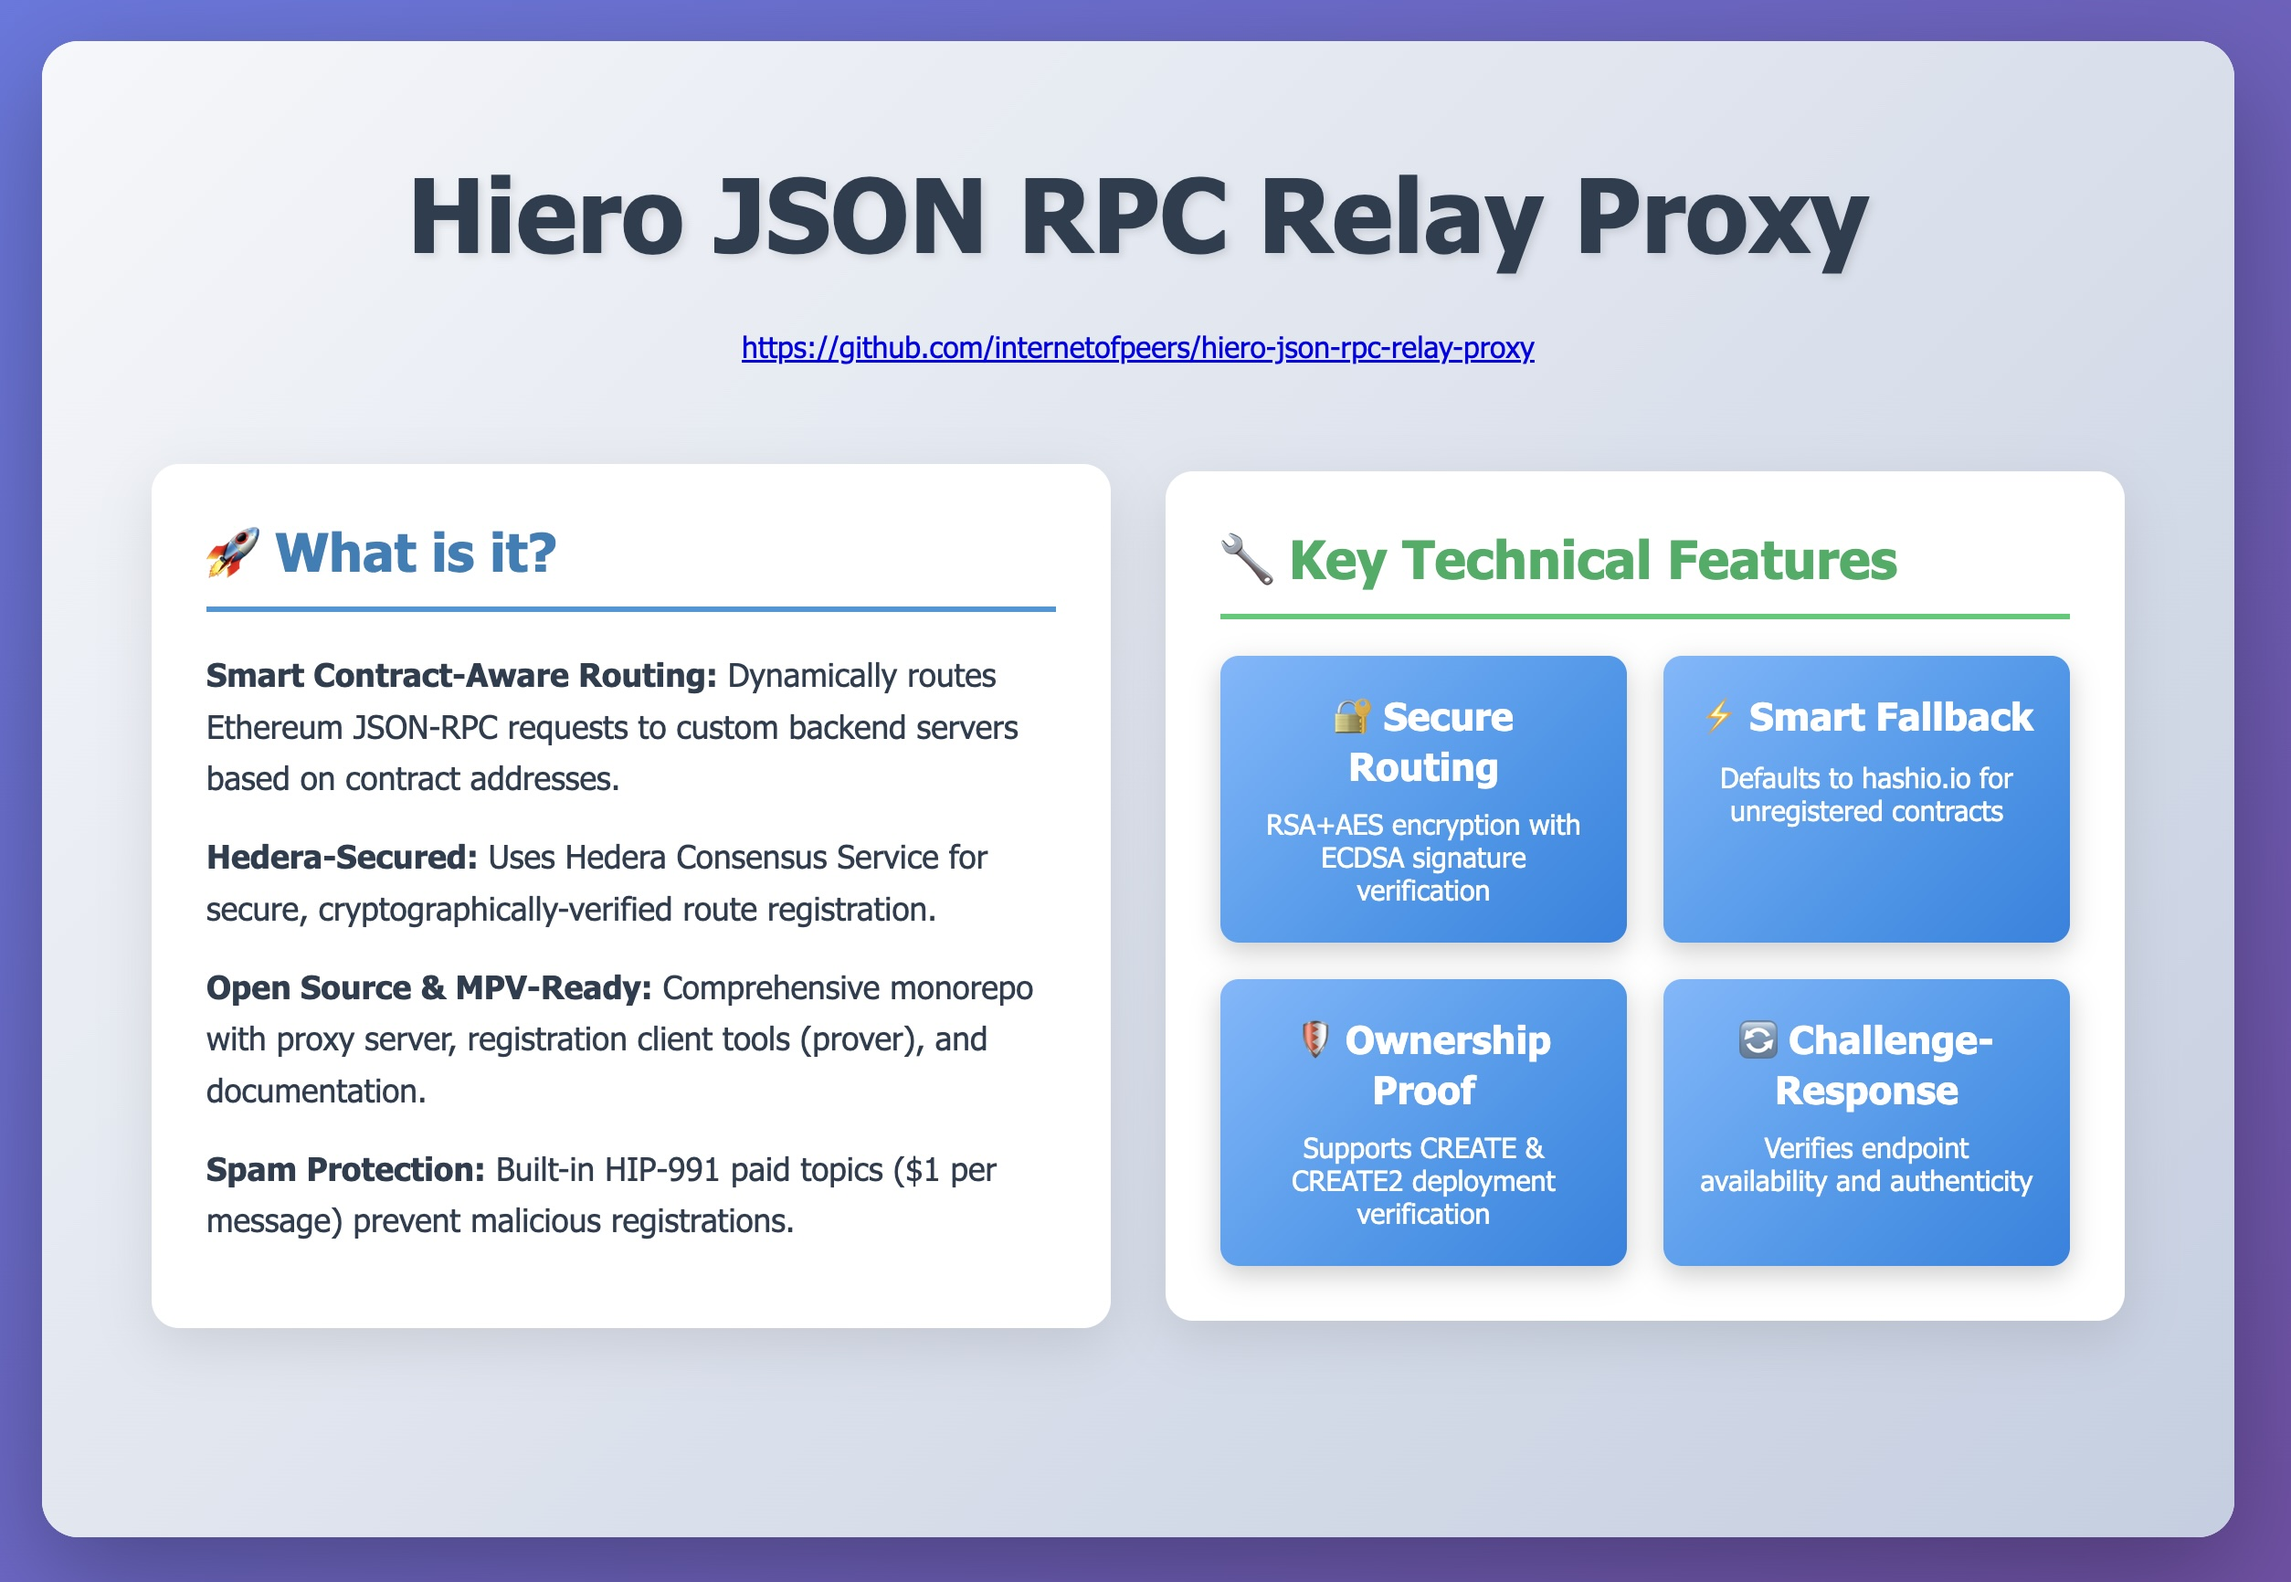
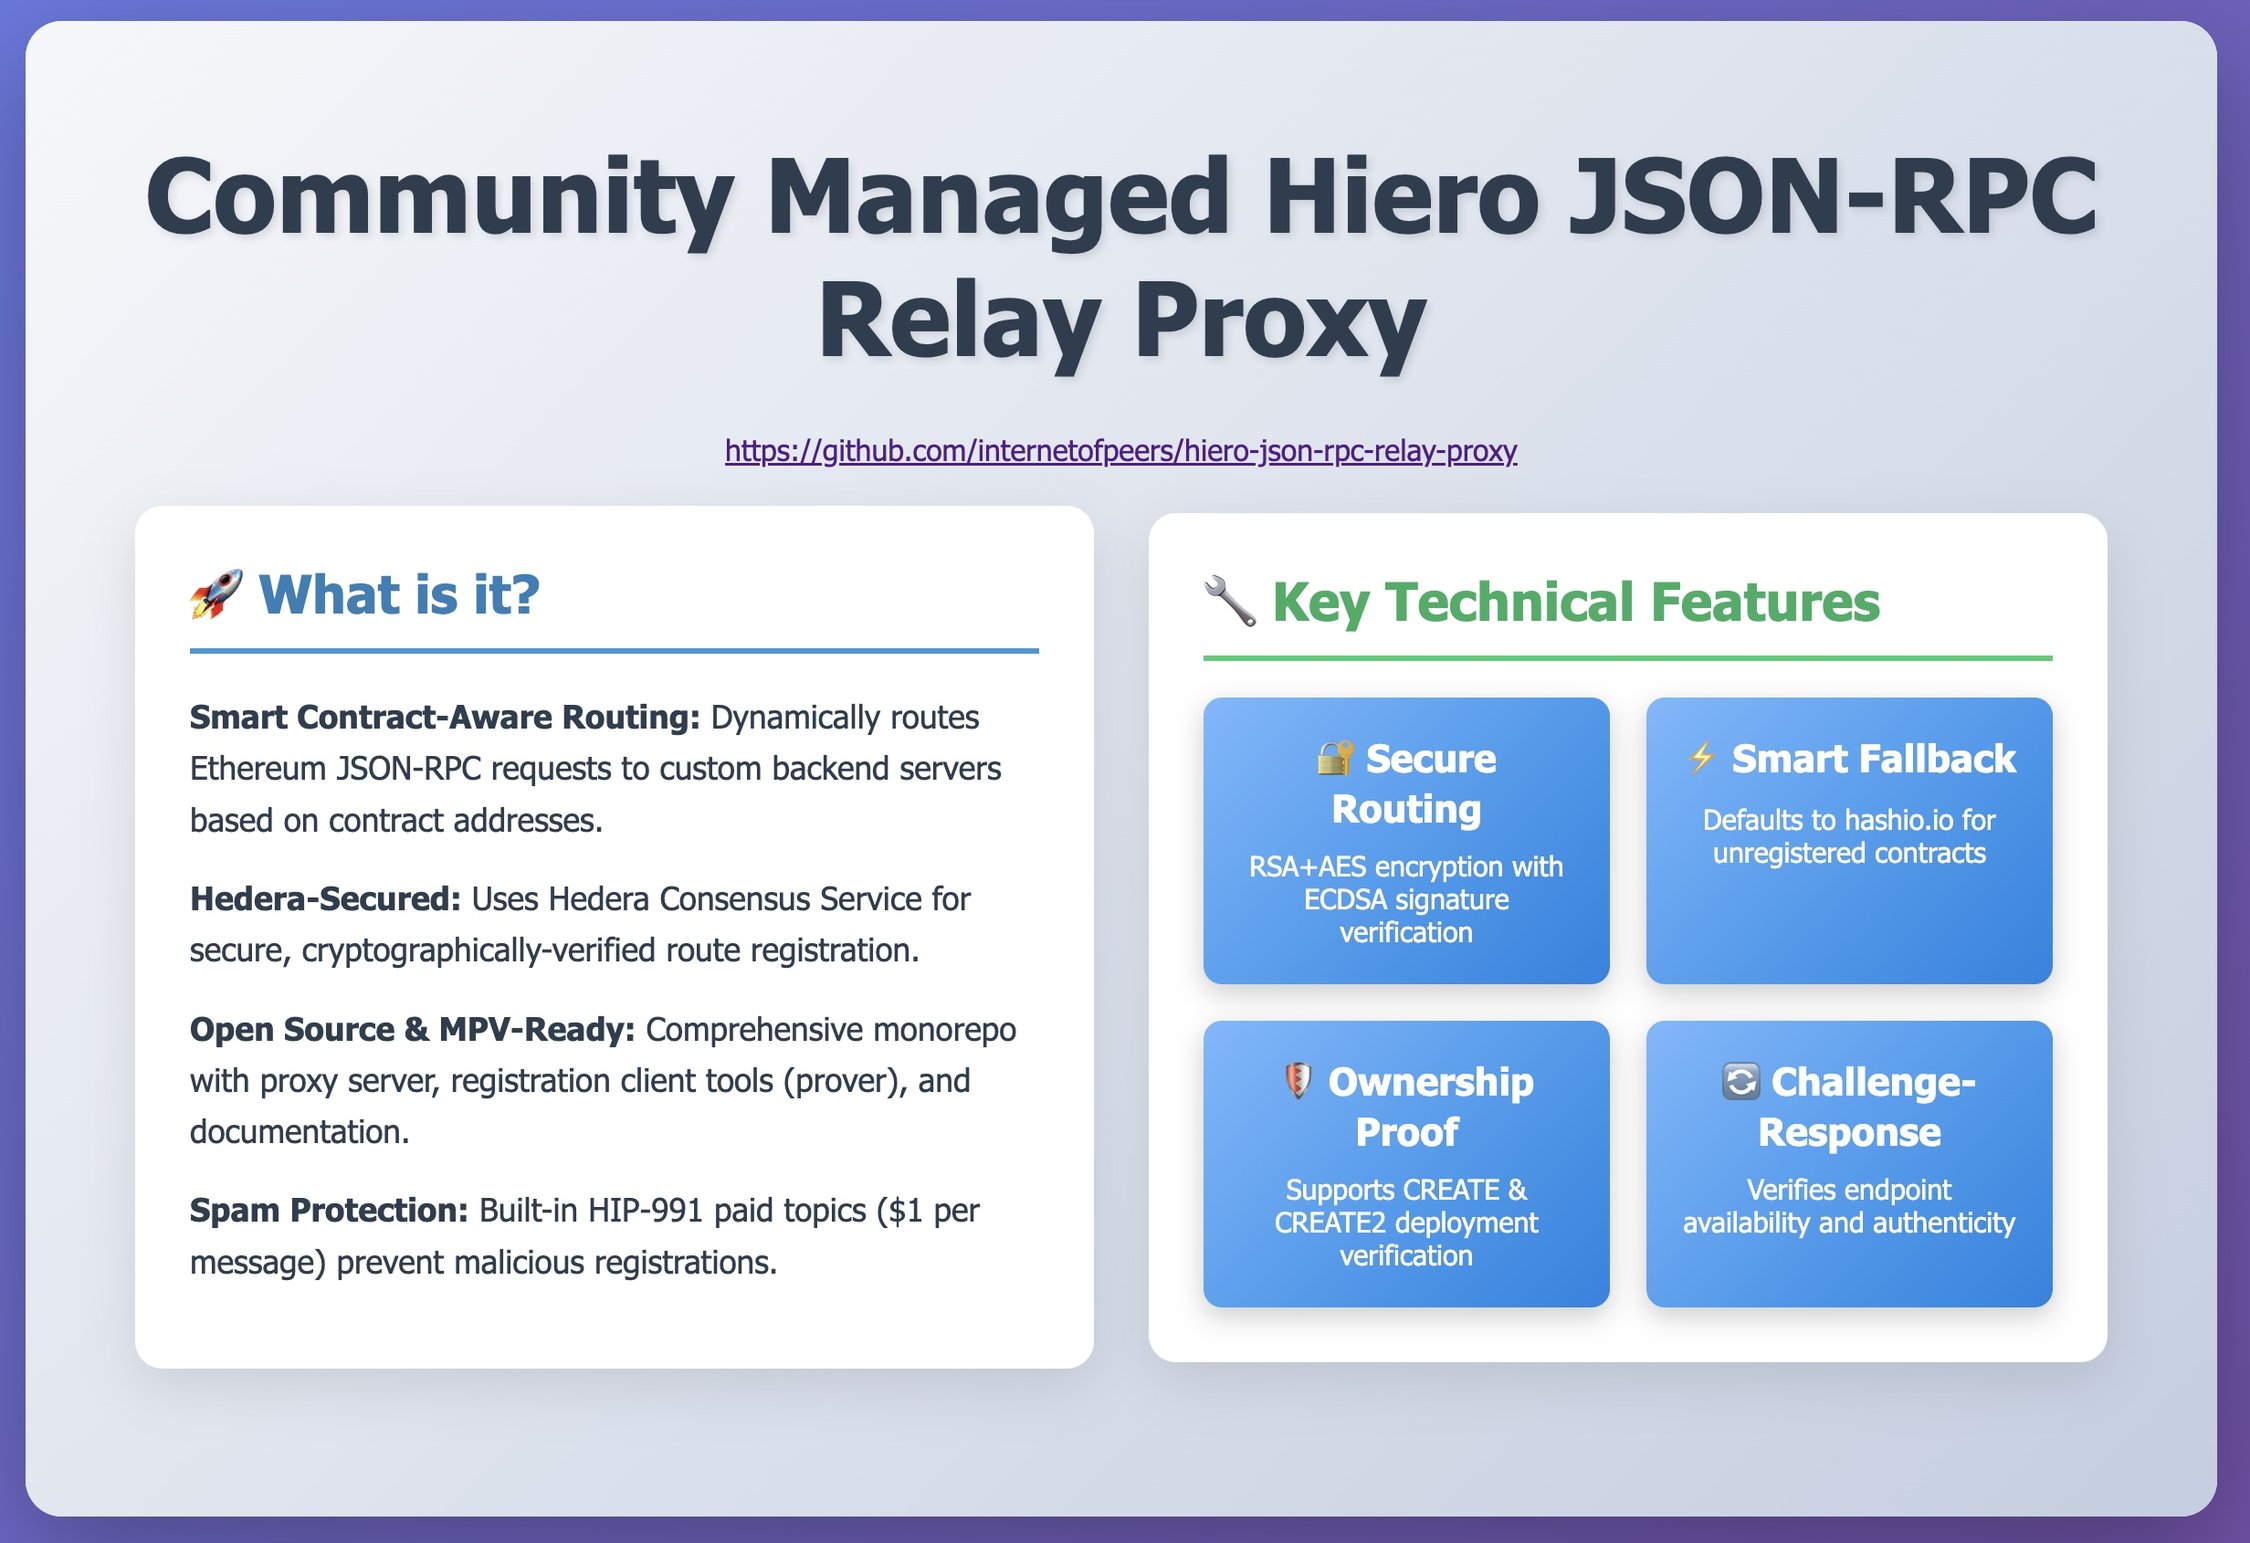
Naming and small details

Changed region(s): [[0.0625, 0.2769, 0.9375, 0.8923], [0.0, 0.0, 1.0, 0.9846], [0.0625, 0.0923, 0.9375, 0.2462]]

diff --git a/packages/proxy/src/proxy.js b/packages/proxy/src/proxy.js
@@ -195,7 +195,7 @@ const server = http.createServer(async (req, res) => {
       // For all other methods, use default server
       const method = jsonData ? jsonData.method : 'unknown';
       console.log(
-        `${req.method} ${req.url} - method: ${method} -> ${PROXY_DEFAULT_SERVER} (default)`
+        `${req.method} ${req.url} - method: ${method} -> ${PROXY_DEFAULT_SERVER} (fallback)`
       );
     }
 
@@ -224,7 +224,9 @@ async function startServer() {
   }
 
   server.listen(PROXY_PORT, () => {
-    console.log(`Hiero JSON-RPC Relay Proxy running on port ${PROXY_PORT}`);
+    console.log(
+      `Community Managed Hiero JSON-RPC Relay running on port ${PROXY_PORT}`
+    );
     console.log(`Default target server: ${PROXY_DEFAULT_SERVER}`);
 
     const topicId = hederaManager.getTopicId();

diff --git a/docs/hiero-json-rpc-relay-presentation.html b/docs/hiero-json-rpc-relay-presentation.html
@@ -3,7 +3,7 @@
   <head>
     <meta charset="UTF-8" />
     <meta name="viewport" content="width=device-width, initial-scale=1.0" />
-    <title>Hiero JSON RPC Relay Proxy - Presentation</title>
+    <title>Community Managed Hiero JSON-RPC Relay Proxy - Presentation</title>
     <style>
       * {
         margin: 0;
@@ -294,7 +294,7 @@
   <body>
     <div class="presentation-container">
       <div class="slide active slide1">
-        <h1>Hiero JSON RPC Relay Proxy</h1>
+        <h1>Community Managed Hiero JSON-RPC Relay Proxy</h1>
         <div style="text-align: center">
           <p>
             <a

diff --git a/TODO.md b/TODO.md
@@ -9,6 +9,18 @@
 ```shell
 curl -X POST http://localhost:3000/ \
  -H "Content-Type: application/json" \
[2 lines of base64/hex data omitted]
  --max-time 10
+```
+
+```shell
+curl -X POST http://localhost:3000/ \
+  -H "Content-Type: application/json" \
[1 lines of base64/hex data omitted]
+```
+
+```shell
+curl -X POST https://testnet.hashio.io/api \
+  -H "Content-Type: application/json" \
+  -d '{"jsonrpc":"2.0","method":"eth_call","params":[{"data":"0xae54e32b","to":"0x2ce9791ce19683b641d2b52d16bb0ebfc0765c44"}, "latest"],"id":555}'
 ```

diff --git a/README.md b/README.md
@@ -1,6 +1,6 @@
-# Hiero JSON-RPC Relay Proxy
+# Community Managed Hiero JSON-RPC Relay Proxy
 
-A monorepo containing a dynamic JSON-RPC relay proxy that routes Ethereum requests to different backend servers based on contract addresses. The system uses Hedera Consensus Service for secure route registration and includes cryptographic verification of contract ownership. It consists of three main packages: a common utilities package, a proxy server that acts as a JSON-RPC relay with dynamic routing, and a prover client that establishes secure route registration.
+A monorepo containing a community-managed dynamic JSON-RPC relay proxy that routes Ethereum requests to different backend servers based on contract addresses. The system uses Hedera Consensus Service for secure route registration and includes cryptographic verification of contract ownership. It consists of three main packages: a common utilities package, a proxy server that acts as a JSON-RPC relay with dynamic routing, and a prover client that establishes secure route registration.
 
 ## Flow Overview
 
